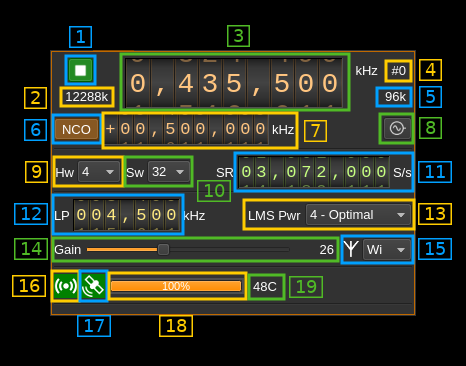
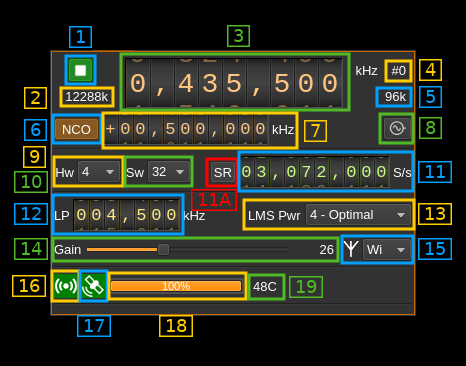
XTRX output: implemented baseband or device sample rate input option

Changed region(s): [[0.3906, 0.3907, 0.9013, 0.6011], [0.03, 0.3907, 0.1202, 0.541]]

diff --git a/plugins/samplesink/xtrxoutput/xtrxoutputgui.cpp b/plugins/samplesink/xtrxoutput/xtrxoutputgui.cpp
@@ -35,6 +35,7 @@ XTRXOutputGUI::XTRXOutputGUI(DeviceUISet *deviceUISet, QWidget* parent) :
     ui(new Ui::XTRXOutputGUI),
     m_deviceUISet(deviceUISet),
     m_settings(),
+    m_sampleRateMode(true),
     m_sampleRate(0),
     m_lastEngineState((DSPDeviceSinkEngine::State)-1),
     m_doApplySettings(true),
@@ -275,7 +276,39 @@ void XTRXOutputGUI::updateSampleRateAndFrequency()
 {
     m_deviceUISet->getSpectrum()->setSampleRate(m_sampleRate);
     m_deviceUISet->getSpectrum()->setCenterFrequency(m_deviceCenterFrequency);
-    ui->deviceRateLabel->setText(tr("%1k").arg(QString::number(m_sampleRate / 1000.0f, 'g', 5)));
+    displaySampleRate();
+}
+
+void XTRXOutputGUI::displaySampleRate()
+{
+    float minF, maxF, stepF;
+    m_XTRXOutput->getSRRange(minF, maxF, stepF);
+
+    ui->sampleRate->blockSignals(true);
+
+    if (m_sampleRateMode)
+    {
+        ui->sampleRateMode->setStyleSheet("QToolButton { background:rgb(60,60,60); }");
+        ui->sampleRateMode->setText("SR");
+        ui->sampleRate->setValueRange(8, (uint32_t) minF, (uint32_t) maxF);
+        ui->sampleRate->setValue(m_settings.m_devSampleRate);
+        ui->sampleRate->setToolTip("Device to host sample rate (S/s)");
+        ui->deviceRateText->setToolTip("Baseband sample rate (S/s)");
+        uint32_t basebandSampleRate = m_settings.m_devSampleRate/(1<<m_settings.m_log2SoftInterp);
+        ui->deviceRateText->setText(tr("%1k").arg(QString::number(basebandSampleRate / 1000.0f, 'g', 5)));
+    }
+    else
+    {
+        ui->sampleRateMode->setStyleSheet("QToolButton { background:rgb(50,50,50); }");
+        ui->sampleRateMode->setText("BB");
+        ui->sampleRate->setValueRange(8, (uint32_t) minF/(1<<m_settings.m_log2SoftInterp), (uint32_t) maxF/(1<<m_settings.m_log2SoftInterp));
+        ui->sampleRate->setValue(m_settings.m_devSampleRate/(1<<m_settings.m_log2SoftInterp));
+        ui->sampleRate->setToolTip("Baseband sample rate (S/s)");
+        ui->deviceRateText->setToolTip("Device to host sample rate (S/s)");
+        ui->deviceRateText->setText(tr("%1k").arg(QString::number(m_settings.m_devSampleRate / 1000.0f, 'g', 5)));
+    }
+
+    ui->sampleRate->blockSignals(false);
 }
 
 void XTRXOutputGUI::displaySettings()
@@ -284,7 +317,7 @@ void XTRXOutputGUI::displaySettings()
     ui->extClock->setExternalClockActive(m_settings.m_extClock);
 
     setCenterFrequencyDisplay();
-    ui->sampleRate->setValue(m_settings.m_devSampleRate);
+    displaySampleRate();
 
     ui->hwInterp->setCurrentIndex(m_settings.m_log2HardInterp);
     ui->swInterp->setCurrentIndex(m_settings.m_log2SoftInterp);
@@ -454,16 +487,24 @@ void XTRXOutputGUI::on_ncoEnable_toggled(bool checked)
 
 void XTRXOutputGUI::on_sampleRate_changed(quint64 value)
 {
-    m_settings.m_devSampleRate = value;
+    if (m_sampleRateMode) {
+        m_settings.m_devSampleRate = value;
+    } else {
+        m_settings.m_devSampleRate = value * (1 << m_settings.m_log2SoftInterp);
+    }
+
     updateDACRate();
     setNCODisplay();
     sendSettings();}
 
 void XTRXOutputGUI::on_hwInterp_currentIndexChanged(int index)
 {
-    if ((index <0) || (index > 5))
+    if ((index <0) || (index > 5)) {
         return;
+    }
+
     m_settings.m_log2HardInterp = index;
+
     updateDACRate();
     setNCODisplay();
     sendSettings();
@@ -471,9 +512,19 @@ void XTRXOutputGUI::on_hwInterp_currentIndexChanged(int index)
 
 void XTRXOutputGUI::on_swInterp_currentIndexChanged(int index)
 {
-    if ((index <0) || (index > 6))
+    if ((index <0) || (index > 6)) {
         return;
+    }
+
     m_settings.m_log2SoftInterp = index;
+    displaySampleRate();
+
+    if (m_sampleRateMode) {
+        m_settings.m_devSampleRate = ui->sampleRate->getValueNew();
+    } else {
+        m_settings.m_devSampleRate = ui->sampleRate->getValueNew() * (1 << m_settings.m_log2SoftInterp);
+    }
+
     sendSettings();
 }
 
@@ -508,6 +559,12 @@ void XTRXOutputGUI::on_pwrmode_currentIndexChanged(int index)
 {
     m_settings.m_pwrmode = index;
     sendSettings();
+}
+
+void XTRXOutputGUI::on_sampleRateMode_toggled(bool checked)
+{
+    m_sampleRateMode = checked;
+    displaySampleRate();
 }
 
 void XTRXOutputGUI::openDeviceSettingsDialog(const QPoint& p)

diff --git a/plugins/samplesink/xtrxoutput/xtrxoutputgui.h b/plugins/samplesink/xtrxoutput/xtrxoutputgui.h
@@ -56,6 +56,7 @@ private:
     DeviceUISet* m_deviceUISet;
     XTRXOutput* m_XTRXOutput; //!< Same object as above but gives easy access to XTRXInput methods and attributes that are used intensively
     XTRXOutputSettings m_settings;
+    bool m_sampleRateMode; //!< true: device, false: base band sample rate update mode
     QTimer m_updateTimer;
     QTimer m_statusTimer;
     int m_sampleRate;
@@ -68,6 +69,7 @@ private:
     MessageQueue m_inputMessageQueue;
 
     void displaySettings();
+    void displaySampleRate();
     void setNCODisplay();
     void setCenterFrequencyDisplay();
     void setCenterFrequencySetting(uint64_t kHzValue);
@@ -90,6 +92,7 @@ private slots:
     void on_antenna_currentIndexChanged(int index);
     void on_extClock_clicked();
     void on_pwrmode_currentIndexChanged(int index);
+    void on_sampleRateMode_toggled(bool checked);
 
     void updateHardware();
     void updateStatus();

diff --git a/plugins/samplesink/xtrxoutput/xtrxoutputthread.cpp b/plugins/samplesink/xtrxoutput/xtrxoutputthread.cpp
@@ -129,6 +129,7 @@ void XTRXOutputThread::run()
         params.tx.chs = XTRX_CH_AB;
         params.tx.wfmt = XTRX_WF_16;
         params.tx.hfmt = XTRX_IQ_INT16;
+        params.tx.flags |= XTRX_RSP_SWAP_IQ;
 
         if (m_nbChannels == 1)
         {

diff --git a/plugins/samplesink/xtrxoutput/readme.md b/plugins/samplesink/xtrxoutput/readme.md
@@ -65,10 +65,11 @@ This is the center frequency of transmission in kHz.
 
 LimeSDR is a 2x2 MIMO device so it has two transmitting channels. This shows the corresponding Tx channel index (0 or 1).
 
-
 <h3>5: Stream sample rate</h3>
 
-Baseband I/Q sample rate in kS/s. This is the device to host sample rate (11) divided by the software interpolation factor (10).
+In host to device sample rate input mode (11A) this is the baseband I/Q sample rate in kS/s. This is the host to device sample rate (11) divided by the software interpolation factor (10).
+
+In baseband sample rate input mode (11A) this is the host to device sample rate in kS/s. This is the baseband sample rate (11) multiplied by the software interpolation factor (10)
 
 <h3>6: NCO toggle</h3>
 
@@ -118,9 +119,18 @@ The first position in the combo is marked as "A". This is because interpolation 
 
 The I/Q stream from the baseband is upsampled by a power of two by software inside the plugin before being sent to the LimeSDR device. Possible values are increasing powers of two: 1 (no interpolation), 2, 4, 8, 16, 32.
 
-<h3>11: Host to device stream sample rate</h3>
+<h3>11A: Host to device sample rate / Baseband sample rate input toggle</h3>
 
-This is the LMS7002M device to/from host stream sample rate in S/s. It is the same for the Rx and Tx systems.
+Use this toggle button to switch the sample rate input next (10) between host to device sample rate and baseband sample rate input. The button shows the current mode:
+
+  - **SR**: host to device sample rate input mode. The baseband sample rate (5) is the host to device sample rate (11) divided by the software interpolation factor (10).
+  - **BB**: baseband sample rate input mode. The host to device sample rate (5) is the baseband sample rate (11) multiplied by the software interpolation factor (10).
+
+<h3>11: Sample rate</h3>
+
+This is the LMS7002M device to/from host stream sample rate or baseband sample rate in samples per second (S/s). The control (11A) is used to switch between the two input modes. The device to/from host stream sample rate is the same for the Rx and Tx systems.
+
+The limits are adjusted automatically. In baseband input mode the limits are driven by the interpolation factor (10). You may need to increase this interpolation factor to be able to reach lower values.
 
 Use the wheels to adjust the sample rate. Pressing shift simultaneously moves digit by 5 and pressing control moves it by 2. Left click on a digit sets the cursor position at this digit. Right click on a digit sets all digits on the right to zero. This effectively floors value at the digit position. Wheels are moved with the mousewheel while pointing at the wheel or by selecting the wheel with the left mouse click and using the keyboard arrows.
 

diff --git a/plugins/samplesource/limesdrinput/readme.md b/plugins/samplesource/limesdrinput/readme.md
@@ -117,9 +117,11 @@ Use this toggle button to switch the sample rate input next (8) between device t
   - **SR**: device to host sample rate input mode. The baseband sample rate (1.5) is the device to host sample rate (6) divided by the software decimation factor (4).
   - **BB**: baseband sample rate input mode. The device to host sample rate (1.5) is the baseband sample rate (8) multiplied by the software decimation factor (4).
 
-<h3>6: Device to host stream sample rate</h3>
+<h3>6: Sample rate</h3>
 
-This is the LMS7002M device to/from host stream sample rate in S/s. It is the same for the Rx and Tx systems.
+This is the LMS7002M device to/from host stream sample rate or baseband sample rate in samples per second (S/s). The control (5) is used to switch between the two input modes. The device to/from host stream sample rate is the same for the Rx and Tx systems.
+
+The limits are adjusted automatically. In baseband input mode the limits are driven by the decimation factor (4). You may need to increase this decimation factor to be able to reach lower values.
 
 Use the wheels to adjust the sample rate. Pressing shift simultaneously moves digit by 5 and pressing control moves it by 2. Left click on a digit sets the cursor position at this digit. Right click on a digit sets all digits on the right to zero. This effectively floors value at the digit position. Wheels are moved with the mousewheel while pointing at the wheel or by selecting the wheel with the left mouse click and using the keyboard arrows.
 

diff --git a/plugins/samplesink/limesdroutput/readme.md b/plugins/samplesink/limesdroutput/readme.md
@@ -154,7 +154,11 @@ Use this toggle button to switch the sample rate input next (10) between host to
   - **SR**: host to device sample rate input mode. The baseband sample rate (2B) is the host to device sample rate (10) divided by the software interpolation factor (9).
   - **BB**: baseband sample rate input mode. The host to device sample rate (2B) is the baseband sample rate (8) multiplied by the software interpolation factor (9).
 
-<h3>10: Host to device stream sample rate</h3>
+<h3>10: Sample rate</h3>
+
+This is the LMS7002M device to/from host stream sample rate or baseband sample rate in samples per second (S/s). The control (10A) is used to switch between the two input modes. The device to/from host stream sample rate is the same for the Rx and Tx systems.
+
+The limits are adjusted automatically. In baseband input mode the limits are driven by the interpolation factor (9). You may need to increase this interpolation factor to be able to reach lower values.
 
 This is the LMS7002M device to/from host stream sample rate in S/s. It is the same for the Rx and Tx systems.
 
